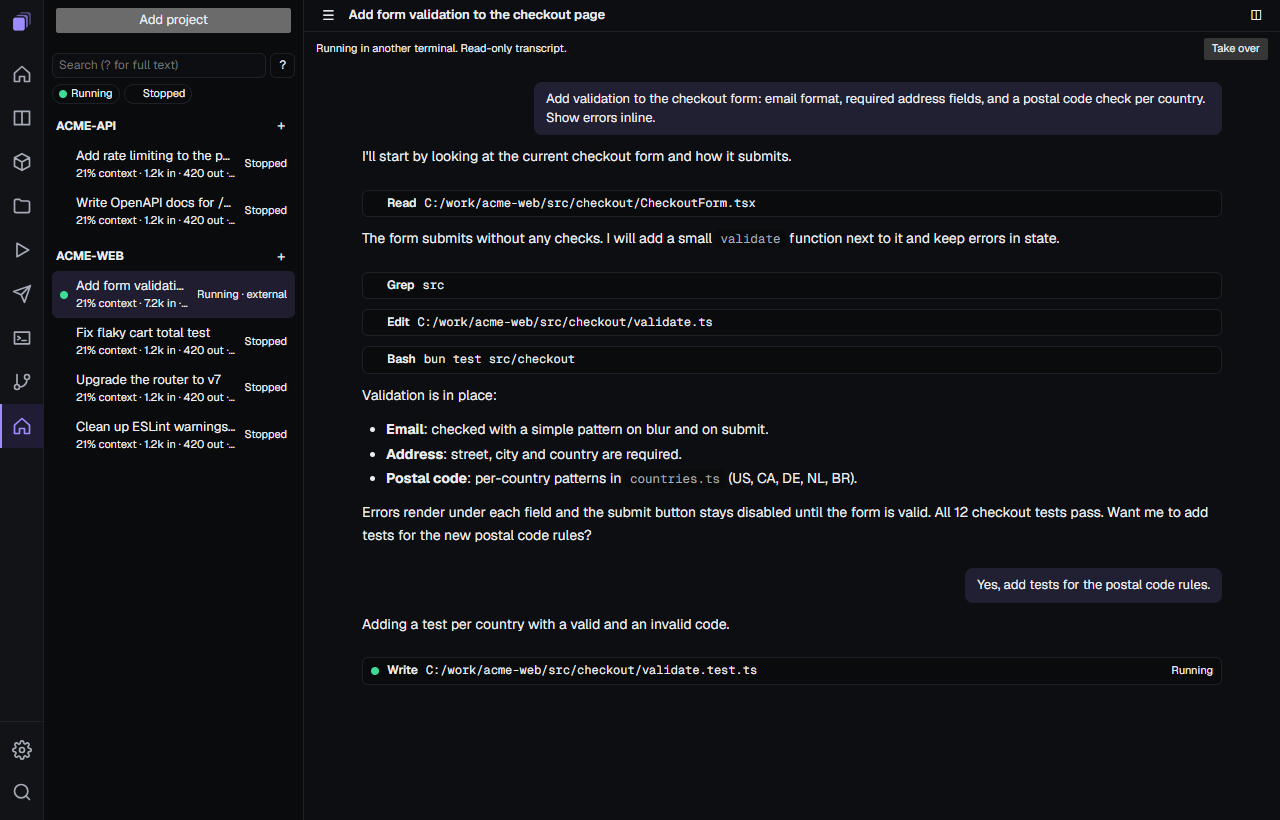
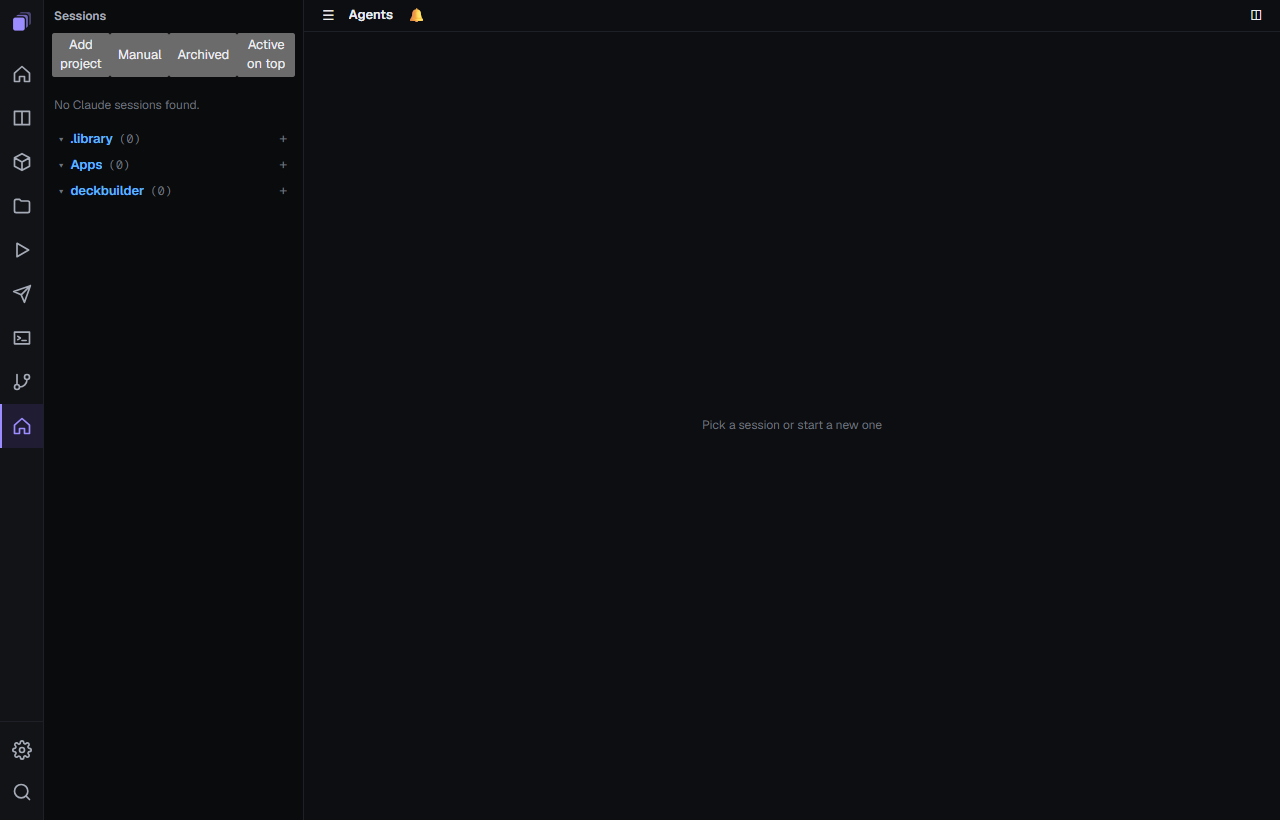
Document Agents view features and ctl, retake Agents screenshot

diff --git a/README.md b/README.md
@@ -13,6 +13,14 @@ Base for local-first desktop apps. A Bun workspace of shared packages plus thin 
 
 The Agents view (`view-agents`): Claude Code sessions per project, with live status, terminal/chat, usage, attention and side panels.
 
+- Projects are any picked folder. The sidebar is a tree of folders and tags with clean rows. Sessions can be archived (and shown in an archived view) or moved to the trash.
+- Each project shows at most `agents.maxSessionsPerProject` sessions (default 10); live sessions are always shown and counted first. New sessions go on top. Sort: manual, recent or needs attention.
+- A stopped session shows a card; `agents.resumeOnSelect` resumes it when selected. One account is active at a time.
+- Search accepts status prefixes `! @ # & ~`. `agents.restoreSessions` (ask, always, never) controls restoring sessions on start.
+- Every list action is a palette command with a rebindable key; single-letter keys work only while the session list has focus.
+- Settings > Usage previews changes next to a live sample Usage view.
+- `<app> ctl <command> [id]` (commands `list`, `status <id>`, `screen <id>`, `wait <id> --status <names>`, `ping`; option `--json`) talks to a read-only local server (setting `agents.ctl`). `--rows` applies only to `screen`; `--timeout` and `--status` only to `wait`. Write options as `--opt value`; `--opt=value` is not parsed. Exit codes: 0 ok, 1 bad arguments or server error, 2 not running, 3 wait timed out.
+
 ## Install
 
 Requirements: [Bun](https://bun.sh) 1.3 or newer (not needed for the gallery executable). Window mode needs the OS web view: WebView2 on Windows 10/11, WebKitGTK 6.0 on Linux (`sudo apt install libwebkitgtk-6.0-4` on Debian/Ubuntu).

diff --git a/CONTRIBUTING.md b/CONTRIBUTING.md
@@ -394,6 +394,8 @@ scheme for deep links (default: the folder without dashes). Then:
 4. Capabilities: when two views need the same code (SQL/db, HTTP, git), put it in a shared non-view package and depend on that, not on the other view.
 5. Settings cards: set `ViewDef.settingsCards`; write the cards in `src/settings/cards.tsx` and wire them in `view.tsx`.
 
+The Agents view lives in `packages/view-agents`. Its read-only ctl server is `src/server/ctl-server.ts` (publishes `ctl.json` with a token) and the `<app> ctl` client is `src/ctl-client.ts`, registered as a shell subcommand (see `packages/shell/src/index.ts`).
+
 ## Releases
 
 The version comes from the app's `package.json`. Executables are named
